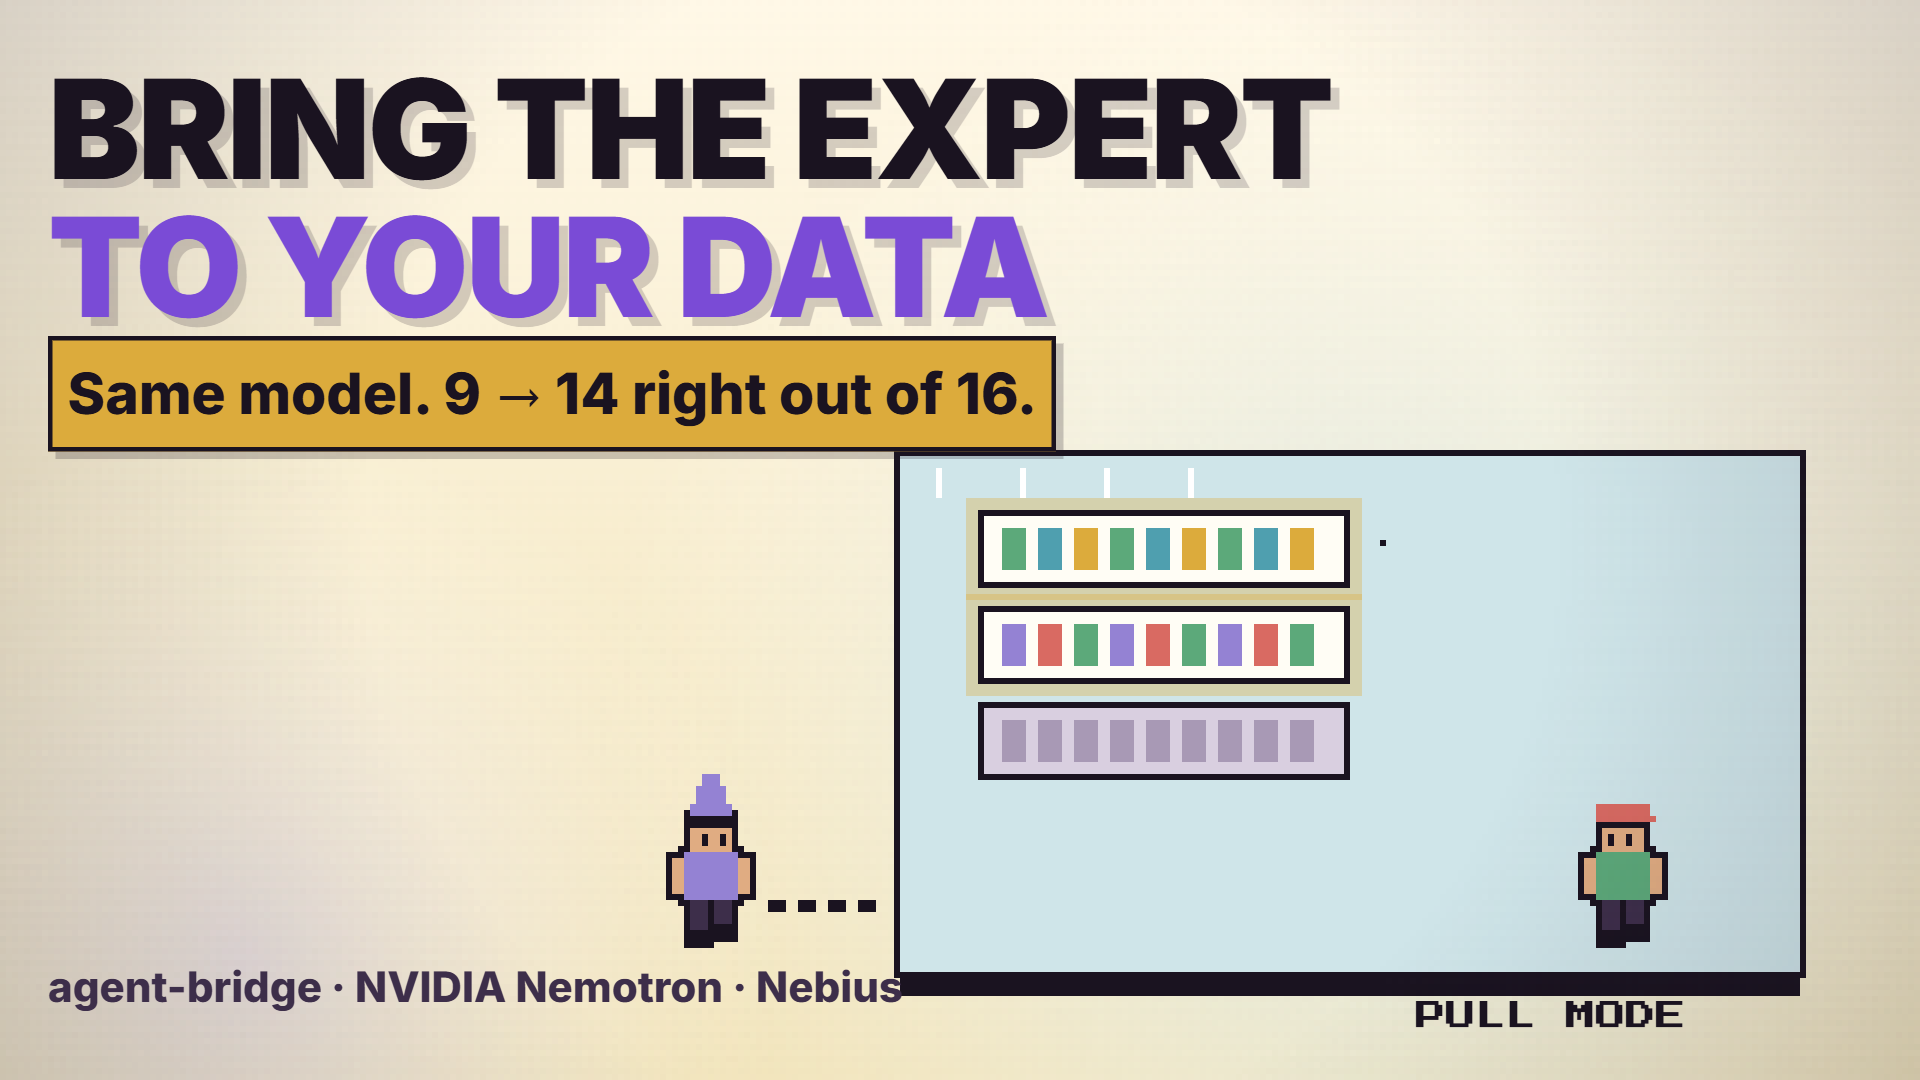
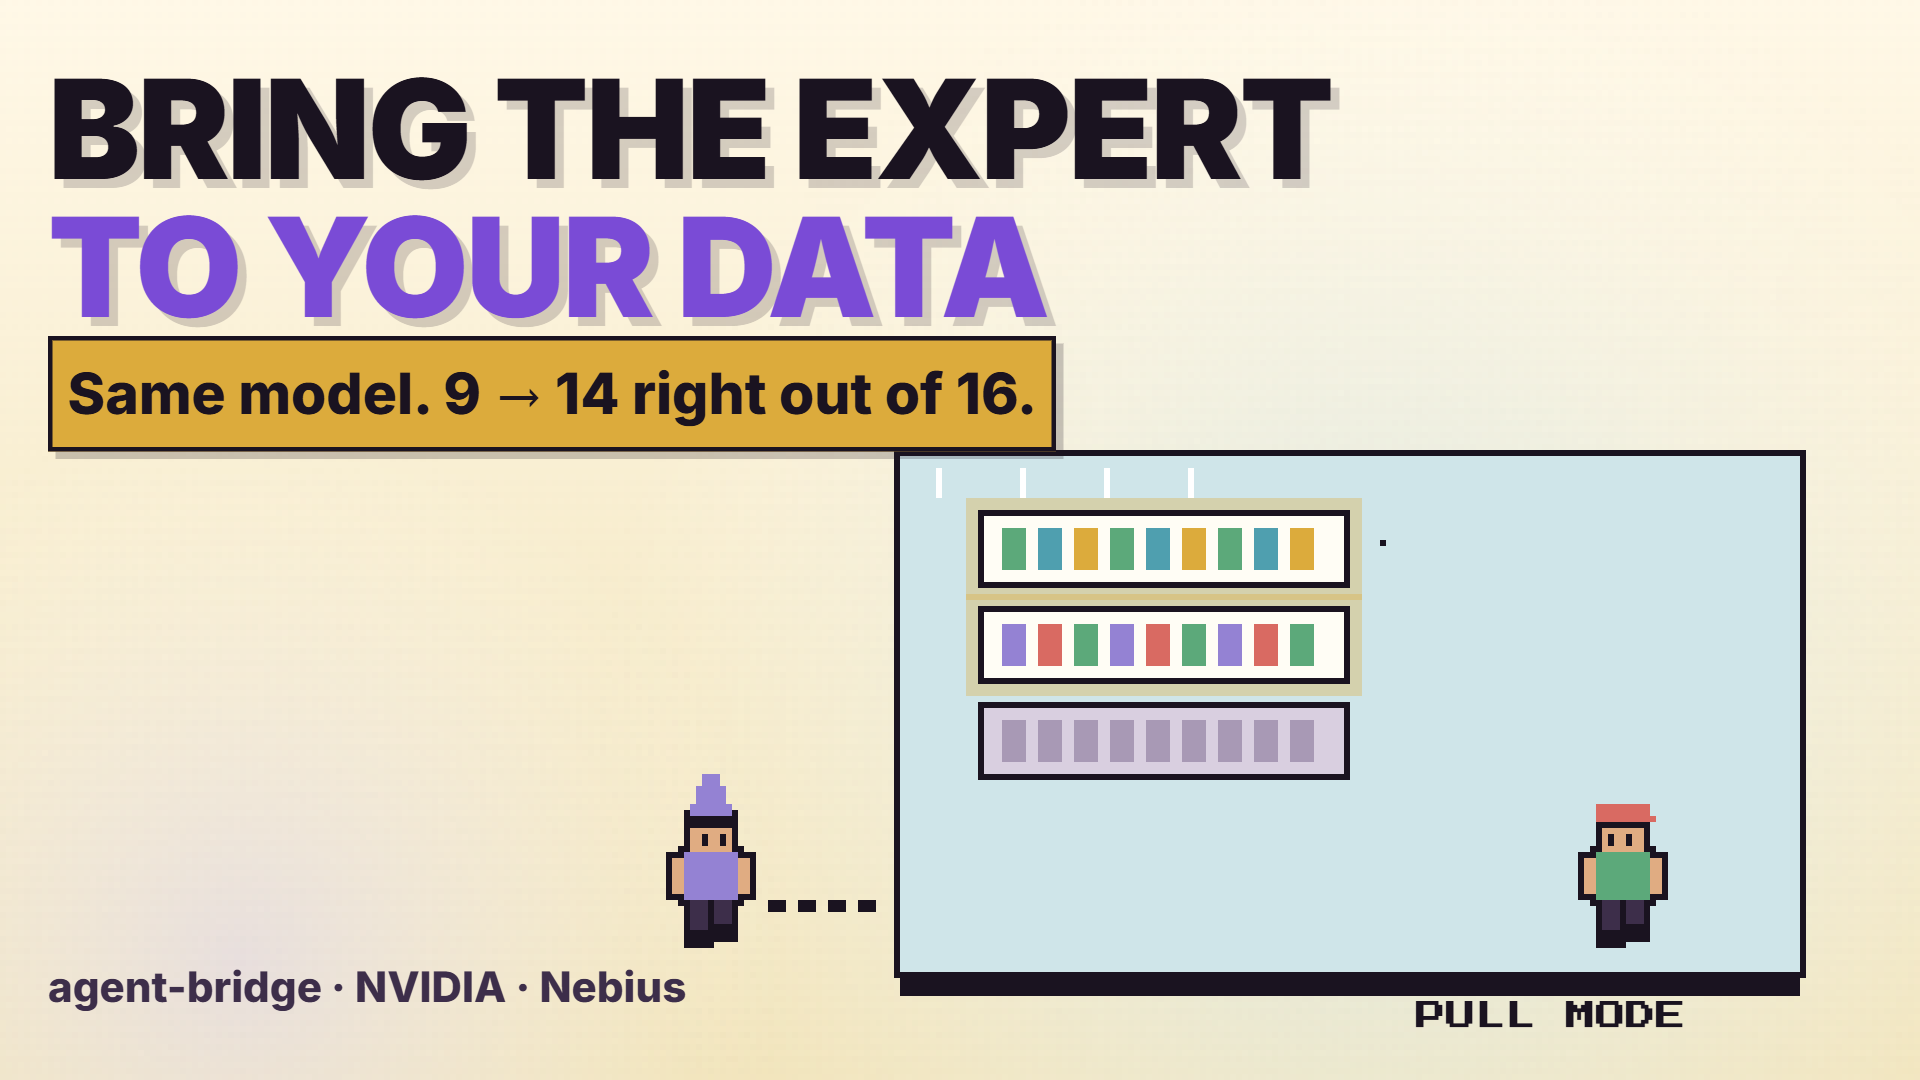
tools(video): 3:2 thumbnails for Devpost

Changed region(s): [[0.875, 0.0, 1.0, 1.0], [0.0, 0.0, 0.125, 1.0], [0.25, 0.8861, 0.4688, 0.9472]]

diff --git a/tools/video/anim/thumb-paypal.html b/tools/video/anim/thumb-paypal.html
@@ -7,10 +7,14 @@ import { stage, label, fontFace, person, K, px, box, W, H, coin, lock, laptop, A
 import { glow, vignette } from "./fx.js";
 fontFace();
 const S = stage(), c = S.c;
+const RATIO = new URLSearchParams(location.search).get("r") === "32";   // 3:2 version (1500 x 1000 style): a taller canvas, art moved down
+const DY = RATIO ? 33 : 0;
+if (RATIO) { const cv = c.canvas; cv.height = H + DY; cv.style.height = (H + DY) * 4 + "px"; c.imageSmoothingEnabled = false; S.root.style.height = (H + DY) * 4 + "px"; document.body.style.height = (H + DY) * 4 + "px"; }
 const disc = (x, y, r, fill) => { c.fillStyle = K.ink; c.beginPath(); c.arc(x, y, r + 1.5, 0, 7); c.fill(); c.fillStyle = fill; c.beginPath(); c.arc(x, y, r, 0, 7); c.fill(); c.fillStyle = "rgba(255,255,255,.55)"; c.beginPath(); c.arc(x - r * 0.4, y - r * 0.4, r * 0.18, 0, 7); c.fill(); };
 window.seek = () => {
-  const g = c.createLinearGradient(0, 0, 0, H); g.addColorStop(0, "#EAF4FF"); g.addColorStop(1, "#C9E3FA");
-  c.fillStyle = g; c.fillRect(0, 0, W, H);
+  const g = c.createLinearGradient(0, 0, 0, H + DY); g.addColorStop(0, "#EAF4FF"); g.addColorStop(1, "#C9E3FA");
+  c.fillStyle = g; c.fillRect(0, 0, W, H + DY);
+  c.save(); c.translate(0, DY);
   glow(c, 55, 128, 110, K.lemon, 0.55); glow(c, 270, 120, 100, K.skyL, 0.5);
   disc(55, 128, 27, K.lemon);                                   // the hold
   px(c, 92, 127, 22, 3, K.ink); px(c, 110, 123, 3, 11, K.ink); px(c, 113, 125, 3, 7, K.ink);
@@ -18,16 +22,16 @@ window.seek = () => {
   disc(150, 152, 13, K.lemon);                                  // given back
   laptop(c, 248, 112, 58, 38);
   person(c, 236, 160, { ...AGENT, pose: "idle", facing: "r" }, 0);
-  vignette(c, 0.14);
+  c.restore();
 };
 const t1 = label(S.text, "PAID PER JOB.", { x: 8, y: 6, size: 100, weight: 900, color: K.ink, w: 310 });
 const t2 = label(S.text, "EVEN ON YOUR PC.", { x: 8, y: 30, size: 100, weight: 900, color: "#0B6BCB", w: 310 });
 [t1, t2].forEach((e) => { e.style.textShadow = "6px 6px 0 rgba(26,19,32,.18)"; e.style.letterSpacing = "-0.02em"; });
-const mid = (txt, cx, cy, size, extra = {}) => { const e = label(S.text, txt, Object.assign({ x: cx - 30, y: cy - 7, size, weight: 900, align: "center", w: 60 }, extra)); return e; };
+const mid = (txt, cx, cy, size, extra = {}) => { const e = label(S.text, txt, Object.assign({ x: cx - 30, y: cy - 7 + DY, size, weight: 900, align: "center", w: 60 }, extra)); return e; };
 mid("40¢", 55, 128, 52); mid("25¢", 150, 108, 40); mid("15¢", 150, 152, 30);
-label(S.text, "paid to the author", { x: 176, y: 100, size: 30, weight: 800, color: K.ink });
-label(S.text, "back to you", { x: 170, y: 148, size: 26, weight: 700, color: K.ink700 });
+label(S.text, "paid to the author", { x: 176, y: 100 + DY, size: 30, weight: 800, color: K.ink });
+label(S.text, "back to you", { x: 170, y: 148 + DY, size: 26, weight: 700, color: K.ink700 });
 label(S.text, "PayPal hold · test money", { x: 8, y: 58, size: 34, weight: 800, bg: K.lemon, pad: 10, border: true, shadow: true });
-label(S.text, "AGORA", { x: 238, y: 164, size: 30, font: "pixel", weight: 400, color: K.ink });
+label(S.text, "AGORA", { x: 238, y: 164 + DY, size: 30, font: "pixel", weight: 400, color: K.ink });
 window.ready = true;
 </script>

diff --git a/tools/video/anim/thumb-nebius.html b/tools/video/anim/thumb-nebius.html
@@ -7,9 +7,13 @@ import { stage, label, fontFace, person, K, px, box, W, H, laptop, folder, shelf
 import { glow, vignette } from "./fx.js";
 fontFace();
 const S = stage(), c = S.c;
+const RATIO = new URLSearchParams(location.search).get("r") === "32";   // 3:2 version (1500 x 1000 style): a taller canvas, art moved down
+const DY = RATIO ? 33 : 0;
+if (RATIO) { const cv = c.canvas; cv.height = H + DY; cv.style.height = (H + DY) * 4 + "px"; c.imageSmoothingEnabled = false; S.root.style.height = (H + DY) * 4 + "px"; document.body.style.height = (H + DY) * 4 + "px"; }
 window.seek = () => {
-  const g = c.createLinearGradient(0, 0, 0, H); g.addColorStop(0, "#FFF8E7"); g.addColorStop(1, "#F1E3B8");
-  c.fillStyle = g; c.fillRect(0, 0, W, H);
+  const g = c.createLinearGradient(0, 0, 0, H + DY); g.addColorStop(0, "#FFF8E7"); g.addColorStop(1, "#F1E3B8");
+  c.fillStyle = g; c.fillRect(0, 0, W, H + DY);
+  c.save(); c.translate(0, DY);
   glow(c, 230, 120, 130, K.skyL, 0.7); glow(c, 40, 160, 90, K.lilacL, 0.6);
   // the sealed room with the person's shelves
   glassRoom(c, 150, 76, 150, 86);
@@ -22,13 +26,13 @@ window.seek = () => {
   // the expert walks in
   person(c, 118, 158, { ...AGENT, pose: "idle", facing: "r" }, 0);
   for (let i = 0; i < 4; i++) px(c, 128 + i * 5, 150, 3, 2, K.ink);   // a little trail of steps
-  vignette(c, 0.18);
+  c.restore();
 };
 const t1 = label(S.text, "BRING THE EXPERT", { x: 8, y: 6, size: 92, weight: 900, color: K.ink, w: 310 });
 const t2 = label(S.text, "TO YOUR DATA", { x: 8, y: 29, size: 92, weight: 900, color: "#7A4BD6", w: 310 });
 [t1, t2].forEach((e) => { e.style.textShadow = "6px 6px 0 rgba(26,19,32,.18)"; e.style.letterSpacing = "-0.02em"; });
 label(S.text, "Same model. 9 → 14 right out of 16.", { x: 8, y: 56, size: 38, weight: 800, bg: K.lemon, pad: 10, border: true, shadow: true });
-label(S.text, "agent-bridge  ·  NVIDIA Nemotron  ·  Nebius", { x: 8, y: 160, size: 28, weight: 800, color: K.ink700 });
-label(S.text, "PULL MODE", { x: 236, y: 166, size: 20, font: "pixel", weight: 400, color: K.ink });
+label(S.text, "agent-bridge  ·  NVIDIA  ·  Nebius", { x: 8, y: 160 + DY, size: 28, weight: 800, color: K.ink700 });
+label(S.text, "PULL MODE", { x: 236, y: 166 + DY, size: 20, font: "pixel", weight: 400, color: K.ink });
 window.ready = true;
 </script>
